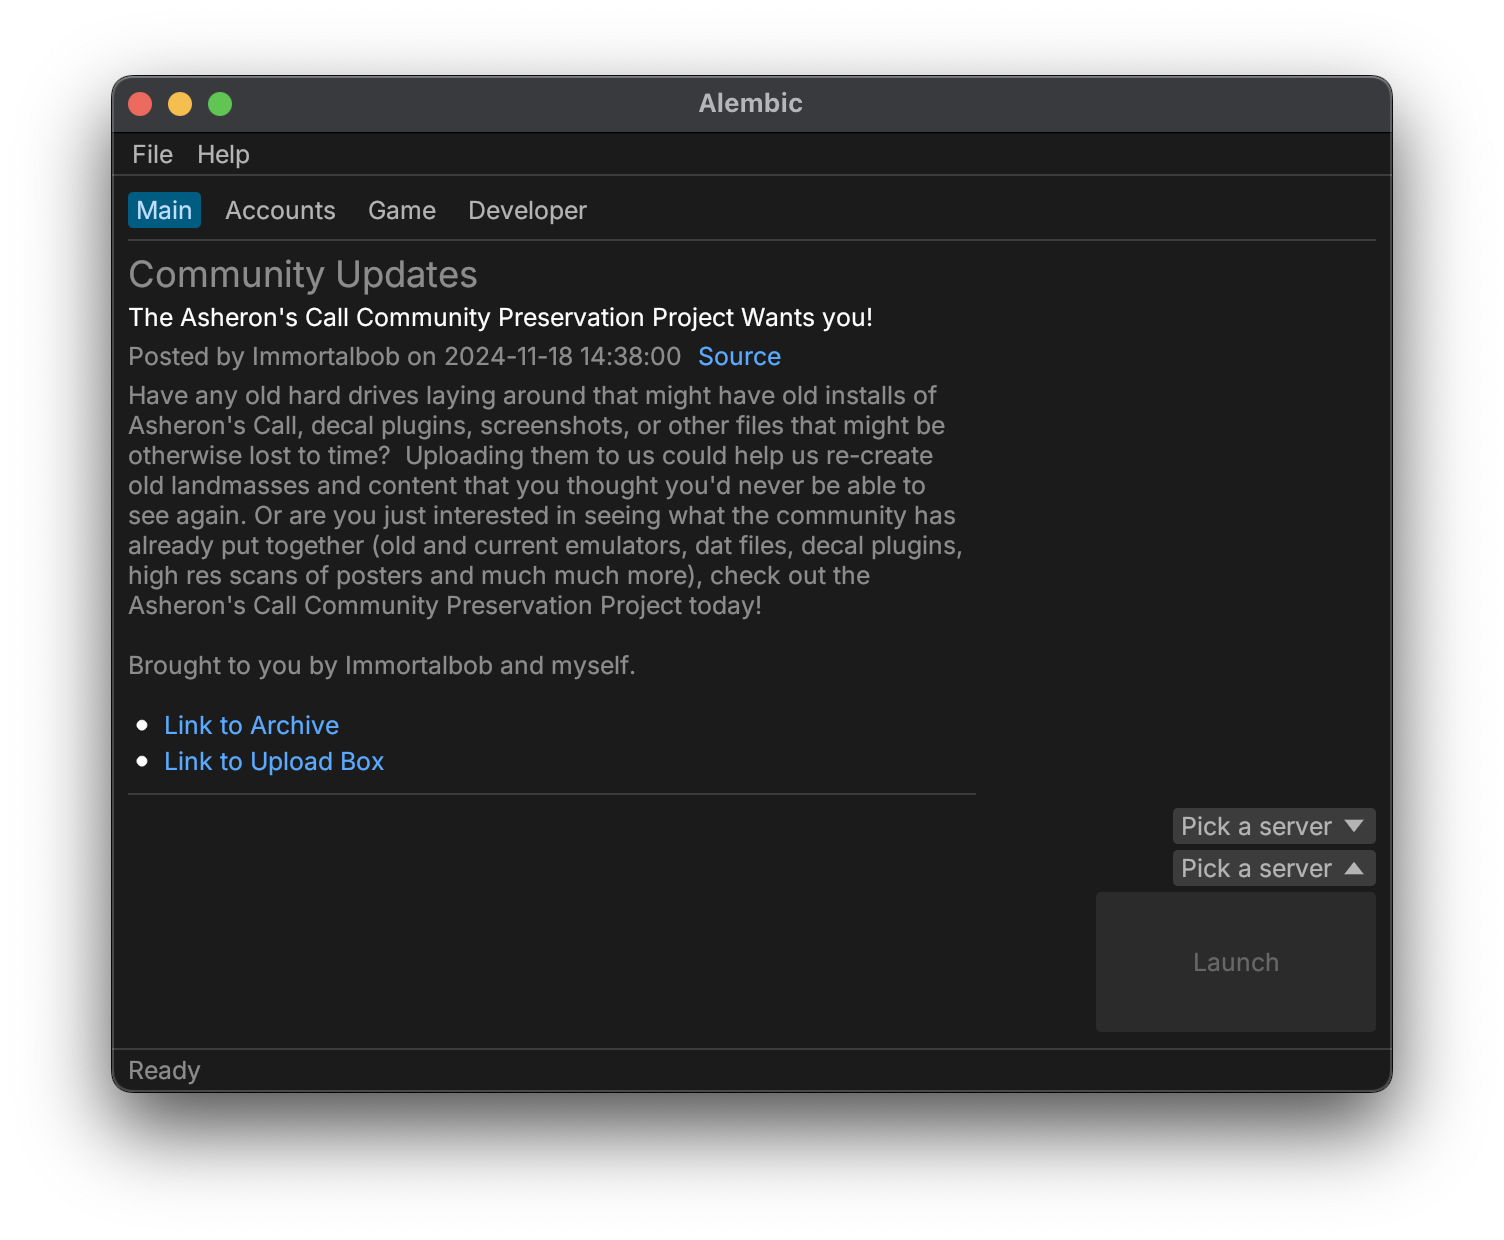
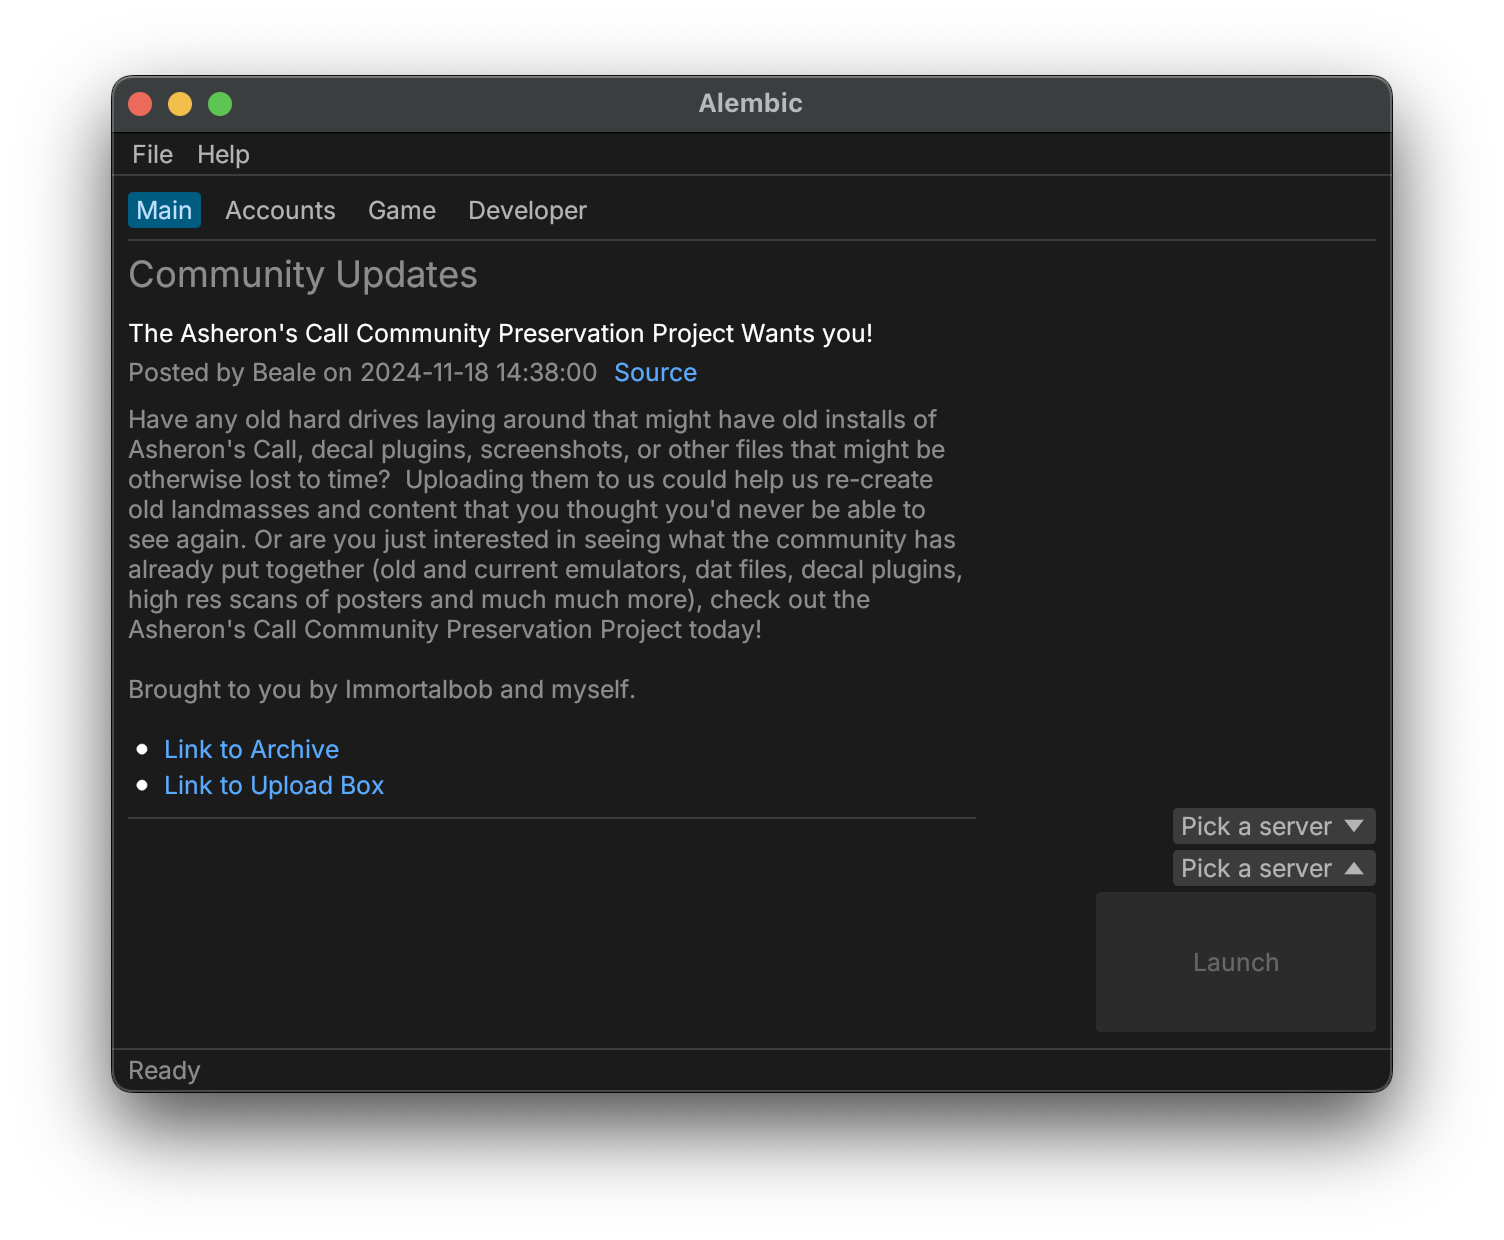
Minor tweaks to news UI

Changed region(s): [[0.0625, 0.2452, 0.6562, 0.6435]]

diff --git a/crates/desktop/src/widgets/news.rs b/crates/desktop/src/widgets/news.rs
@@ -4,7 +4,7 @@ use std::{
 };
 
 use chrono::{DateTime, Local};
-use eframe::egui::{Id, Response, RichText, ScrollArea, Ui, Widget};
+use eframe::egui::{FontFamily, Id, Response, RichText, ScrollArea, Ui, Widget};
 use egui_commonmark::{CommonMarkCache, CommonMarkViewer};
 
 use crate::{
@@ -73,7 +73,7 @@ impl Widget for &mut News {
         // Regular UI code continues here
         ui.vertical(|ui| {
             ui.heading("Community Updates");
-
+            ui.add_space(8.0);
             if let Some(b) =
                 ui.data_mut(|data| data.get_persisted::<Arc<Mutex<Backend>>>(Id::new("backend")))
             {
@@ -109,7 +109,7 @@ impl Widget for &mut News {
                                             entry.source_url.clone(),
                                         );
                                     });
-
+                                    ui.add_space(4.0);
                                     CommonMarkViewer::new().show(
                                         ui,
                                         &mut self.commonmark_cache,
